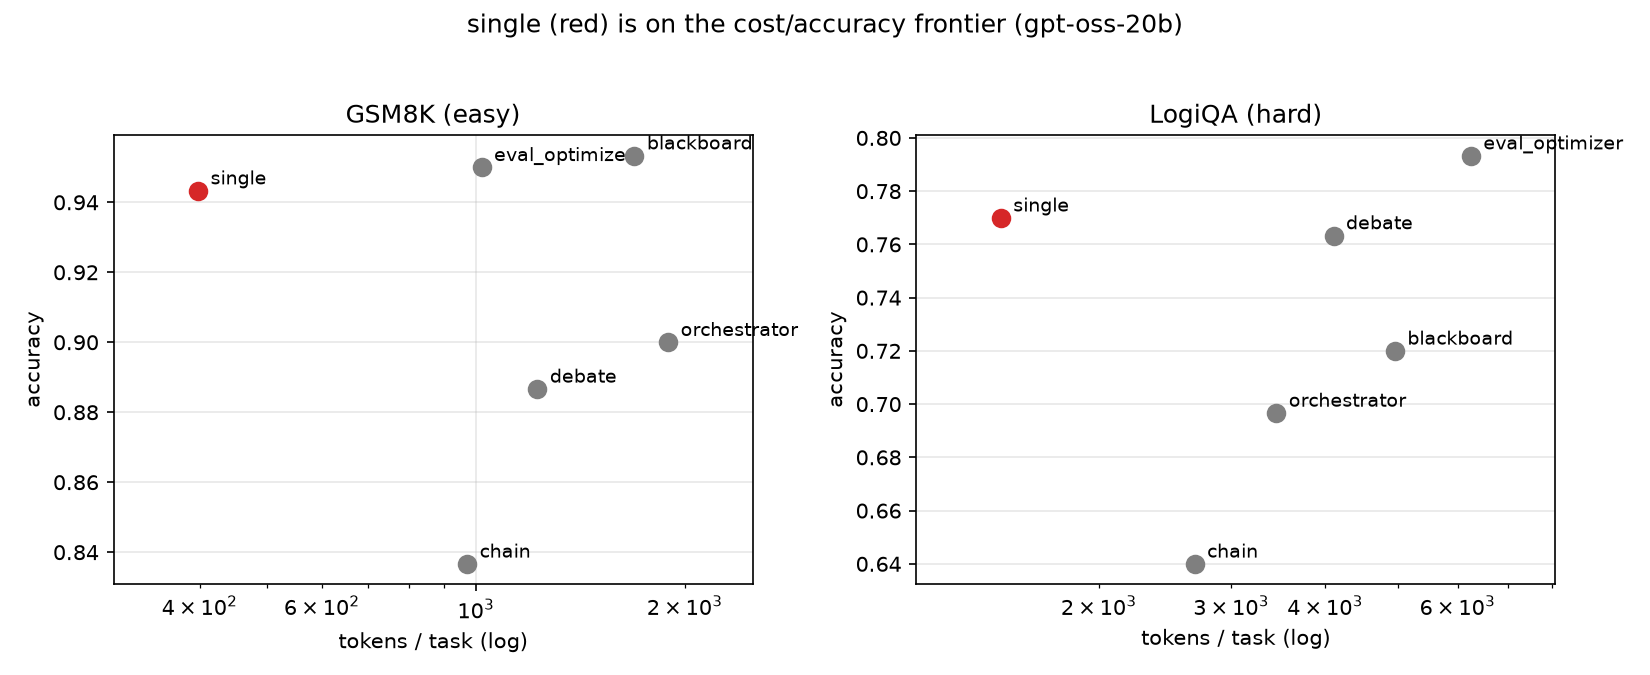
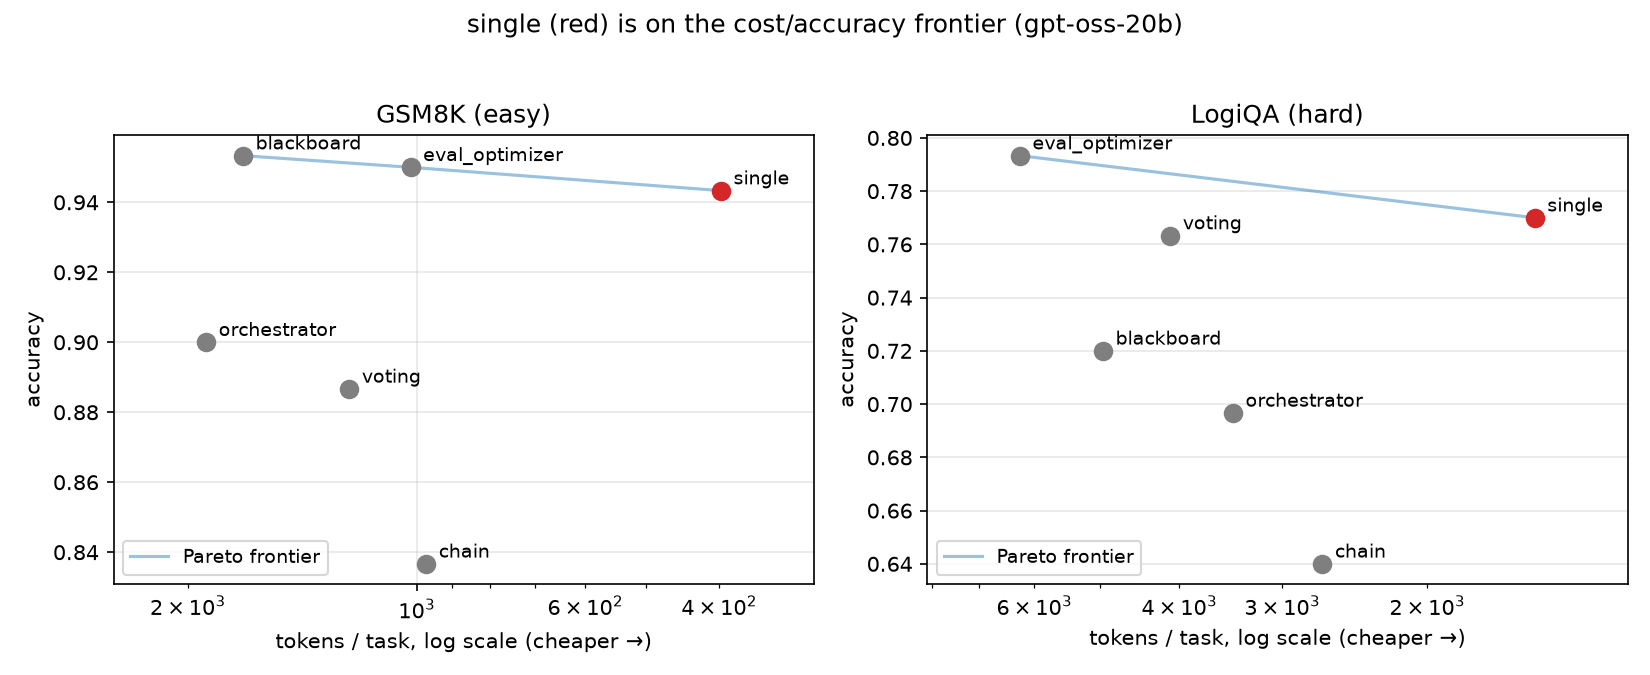
chore: upd pareto fronts

diff --git a/benchmarks/plots.py b/benchmarks/plots.py
@@ -14,6 +14,7 @@ from report import OUT, ORDER, load, metrics, stable_oracle
 FIGS = Path(__file__).parent / "figures"
 GPT_OSS = "openrouter:openai/gpt-oss-20b"
 PATS = [p for p in ORDER if p != "router"]
+LABELS = {"debate": "voting"}  # display only; recorded data keeps the original name
 
 TEXT = {
     "en": {
@@ -26,7 +27,8 @@ TEXT = {
         "pp": "pp",
         "acc": "accuracy",
         "pa_title": "single (red) is on the cost/accuracy frontier (gpt-oss-20b)",
-        "pa_x": "tokens / task (log)",
+        "pa_x": "tokens / task, log scale (cheaper →)",
+        "pa_frontier": "Pareto frontier",
         "pa_easy": "GSM8K (easy)",
         "pa_hard": "LogiQA (hard)",
         "se_title": "LogiQA / gpt-oss-20b: headroom exists, zero-shot selection misses it",
@@ -41,8 +43,9 @@ TEXT = {
         "hr_best": "лучший фиксированный паттерн",
         "pp": "пп",
         "acc": "точность",
-        "pa_title": "single (красный) — на границе «стоимость/точность» (gpt-oss-20b)",
-        "pa_x": "токенов на задачу (лог. шкала)",
+        "pa_title": "single (красный) на границе «стоимость/точность» (gpt-oss-20b)",
+        "pa_x": "токенов на задачу, лог. шкала (дешевле →)",
+        "pa_frontier": "граница Парето",
         "pa_easy": "GSM8K (лёгкий)",
         "pa_hard": "LogiQA (трудный)",
         "se_title": "LogiQA / gpt-oss-20b: запас есть, zero-shot выбор его не берёт",
@@ -111,29 +114,54 @@ def fig_headroom(t: dict) -> None:
     plt.close(fig)
 
 
+def _frontier(acc: dict, tok: dict, pats: list[str]) -> list[str]:
+    # non-dominated set (minimize tokens, maximize accuracy): walk from the cheapest, keep a
+    # point only if it beats every cheaper one on accuracy. Returned sorted by cost ascending.
+    front: list[str] = []
+    best = -1.0
+    for p in sorted(pats, key=lambda p: tok[p]):
+        if acc[p] > best:
+            front.append(p)
+            best = acc[p]
+    return front
+
+
 def fig_pareto(t: dict) -> None:
-    # two panels: easy (converge) vs hard (spread); single sits top-left in both
+    # two panels: easy (converge) vs hard (spread). x inverted so cheaper is to the right and
+    # the good corner is top-right; the frontier line traces the non-dominated points.
     fig, axes = plt.subplots(1, 2, figsize=(11, 4.5), sharey=False)
     for ax, (bench, name) in zip(
         axes, [("gsm8k", t["pa_easy"]), ("logiqa", t["pa_hard"])]
     ):
         a = agg(bench, GPT_OSS)
+        front = _frontier(a["acc"], a["tok"], list(a["acc"]))
+        ax.plot(
+            [a["tok"][p] for p in front],
+            [a["acc"][p] for p in front],
+            "-",
+            color="tab:blue",
+            alpha=0.45,
+            zorder=2,
+            label=t["pa_frontier"],
+        )
         for p in a["acc"]:
             color = "tab:red" if p == "single" else "tab:gray"
             ax.scatter(a["tok"][p], a["acc"][p], s=70, color=color, zorder=3)
             ax.annotate(
-                p,
+                LABELS.get(p, p),
                 (a["tok"][p], a["acc"][p]),
                 textcoords="offset points",
                 xytext=(6, 3),
                 fontsize=9,
             )
         ax.set_xscale("log")
-        ax.margins(x=0.18)  # room for the rightmost label
+        ax.invert_xaxis()  # cheaper to the right
+        ax.margins(x=0.18)  # room for the labels
         ax.set_xlabel(t["pa_x"])
         ax.set_ylabel(t["acc"])
         ax.set_title(name)
         ax.grid(True, alpha=0.3)
+        ax.legend(loc="lower left", fontsize=9)
     fig.suptitle(t["pa_title"])
     fig.tight_layout(rect=(0, 0, 1, 0.95))
     fig.savefig(FIGS / f"pareto{t['suffix']}.png", dpi=150)